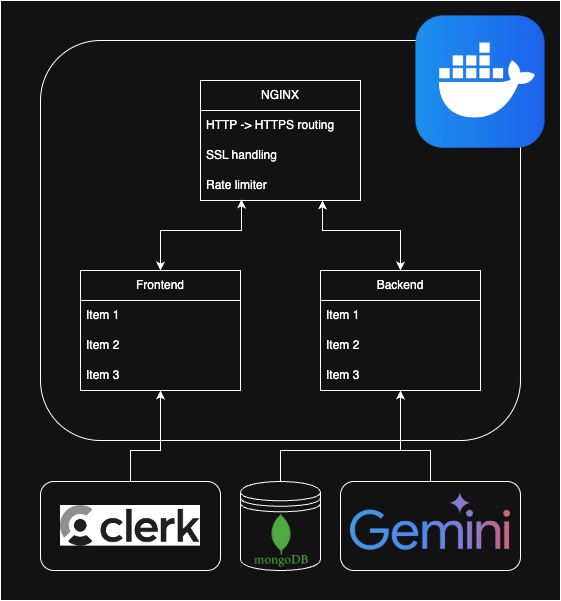
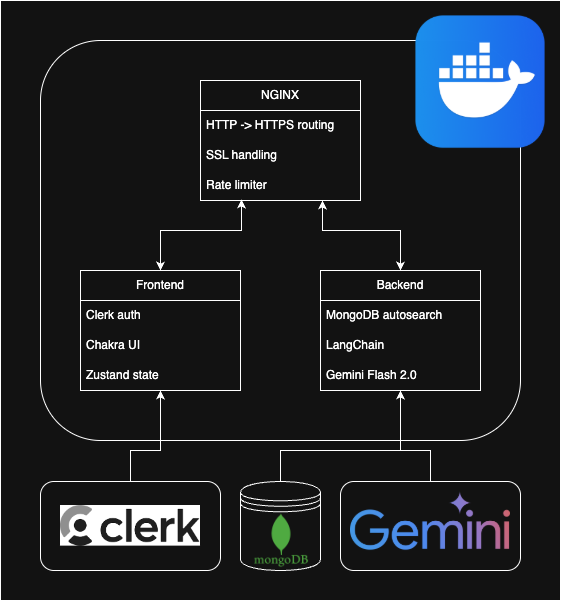
Updating about page, architecture, .gitignore

diff --git a/content/about/index.md b/content/about/index.md
@@ -1,1 +1,43 @@
-Hello world
+# About Me
+
+I'm Adhi Nugroho, a data engineer with 4+ years of experience building robust pipelines and scalable analytics infrastructure. I create value using my skills in data modelling, software systems, automation and evidence driven decision making.
+
+My work directly impacts: reduced operational costs, faster decision making, improved process efficiency and the foundation needed for growth. I turn complex data landscape into competitive advantage.
+
+## What I Do
+
+My expertise lies at the intersection of software engineering and data science. I design and implement end to end solutions that handle everything from initial ingestion, automated testing, infrastructure and final visualisation. All while ensuring quality and accessibility across organisations.
+
+**Core Specialisations:**
+- Cloud architecture, primarily GCP
+- On-premise architecture
+- Real-time streaming pipelines with Apache Kafka and Spark
+- Data warehouse design and optimisation
+- ETL/ELT pipeline development using Python, SQL, dbt and Airflow
+- DevOps and infrastructure as code
+
+## My Journey
+
+My path into data engineering began during my Mechanical Engineering degree at Bristol, where I am heavily interested in the simulation side of things (FEA, CFD). So I decided to pursue my Master's in a more software heavy course, when I discovered the fascinating challenge of making sense of massive datasets. What started as curiosity about energy forecasting problem evolved into a career focused on building core solutions that powers modern analytics.
+
+I've had the privilege of working across different industries. From scaling data systems at a financial institution churning billions of transactions, to architecting and delivering for a giant telco, improving the efficiency of various critical processes.
+
+## Core Engineering Values
+
+I believe great engineering is invisible to end users but critical in impact. We are often the unsung operator of organisations. Thus, my approach rests on three core values:
+
+**Reliability First:** Above all, data systems must produce correct data. They should also be bulletproof. I build with correctness and failure scenarios in mind, implementing monitoring, automated testing and error handling.
+
+**Scalability:** My solution should handle tomorrow's growth through reusability and optimised performance. I create systems that scale and adapt to changing business needs without requiring complete rewrites.
+
+**Collaboration:** The best data infrastructure must serves both technical and business stakeholders. I prioritise clear documentation and strong stakeholder communication, bridging the two functions together.
+
+## Beyond the Role
+
+When I'm not improving query performance or improving pipeline failures, I care about mentoring junior engineers, exploring process opportunities, exploring engineering direction and regularly attend data/software expos.
+
+I'm an avid football player. I primarily play defensive midfielder which mirrors the systematic thinking and critical (often abstracted) responsibilities required in data engineering. Both require hard work, anticipation, and creative solutions to big challenges.
+
+## Let's Connect
+
+I'm always excited to discuss interesting challenges, whether you're looking to build something new or optimise existing systems. Please feel free to reach out :)

diff --git a/content/posts/shann/Shann Dosage Assistant.md b/content/posts/shann/Shann Dosage Assistant.md
@@ -59,34 +59,10 @@ By providing an intelligent dosage assistant, the system aims to:
 
 ## Technical Specification
 
-This solution leverages modern AI capabilities while maintaining a focus on providing practical, reliable medication information through an accessible interface. This is a full-stack MERN (MongoDB, Express, React, Node.js) application which incorporates LLM services through Google GenAI integration.  
+This solution leverages modern AI capabilities while maintaining a focus on providing practical, reliable medication information through an accessible interface. This is a full-stack MERN (MongoDB, Express, React, Node.js) application which incorporates LLM services through Google GenAI Gemini Flash 2.0 model, connected using LangChain framework.  These services are load balanced and routed by NGINX while containerised using Docker, giving a scalable and maintainable solution.
 
 For full technical detail, please visit the [Github Repository](https://github.com/bad-rooster/shann-mern)
-  
-### Frontend  
-- **React**: 19.0.0  
-- **Vite**: 6.2.0 - fast development and builds  
-- **Chakra UI**: 3.14.0 - UI components  
-- **Zustand**: 5.0.3 - state management  
-- **React Markdown**: 10.1.0 - rendering markdown content 
-  
-### Backend  
-- **Express**: 4.21.2  
-- **MongoDB** with **Mongoose**: 8.12.1  
-- **CORS**: 2.8.5  
-- **Dotenv**: 16.4.7  
-- **Nodemon**: 3.1.9
 
-### Containerisation
-- **Docker**: 28.1.1 - container build
-- **Docker Compsose**: 2.35.1 - multi container composer
-- **NGINX**: 1.27.5  - container networking and load balancing
-
-  
-### AI/LLM Integration  
-- **LangChain Core**: 0.3.42  
-- **LangChain Google GenAI**: 0.2.8
-- **Gemini Flash 2.0**  
   
 
 ## Acknowledgements  
